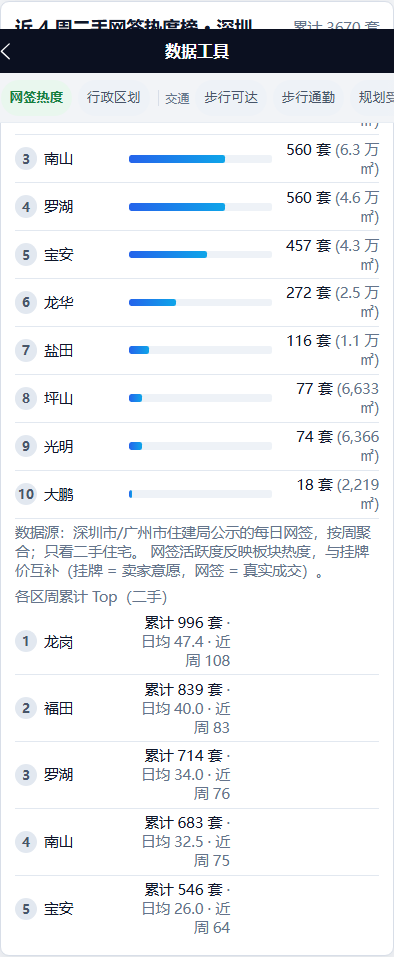
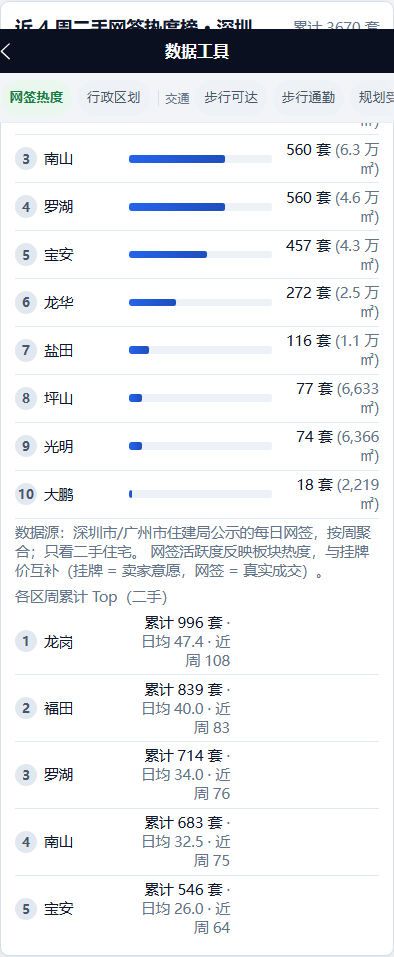
v1.123.82: sky-500 强调色 token 化
全仓扫描残留硬编码 #0ea5e9（sky-500）并迁移到 var(--color-focus)，
覆盖 dashboard（网签品类 tab 选中态、网签进度条渐变、房源新鲜度标题左边框、
趋势柱状图渐变）、data-tools（网签进度条渐变、社区价格涨色、价格分段 chip
选中态）、wangqian（spark-bar 第二组渐变）共 8 处。

纯色用法直接换 var(--color-focus)，渐变端点统一用
color-mix(in srgb, var(--color-focus) 80%, #000) 派生深色端。
浅色模式由 sky-500 切换为品牌蓝 #2563eb、深色模式由 sky-400 #38bdf8 统一，
消除主题间蓝色调不一致。map-view 地铁 POI 标记色属数据可视化，保留原值。

versionCode: 417

diff --git a/realty_app/src/pages/dashboard/dashboard.vue b/realty_app/src/pages/dashboard/dashboard.vue
@@ -4411,7 +4411,7 @@ onShow(async () => {
 }
 .trend-bar-fill {
   width: 80%;
-  background: linear-gradient(180deg, var(--color-focus) 0%, #0ea5e9 100%);
+  background: linear-gradient(180deg, var(--color-focus) 0%, color-mix(in srgb, var(--color-focus) 80%, #000) 100%);
   border-radius: var(--radius-xxxs) var(--radius-xxxs) 0 0;
   min-height: 4rpx;
 }
@@ -4441,9 +4441,9 @@ onShow(async () => {
   border: 1rpx solid var(--color-muted);
 }
 .wq-cat-tab-on {
-  background: #0ea5e9;
+  background: var(--color-focus);
   color: #ffffff;
-  border-color: #0ea5e9;
+  border-color: var(--color-focus);
 }
 .wq-cat-tab-off {
   background: transparent;
@@ -4644,7 +4644,7 @@ onShow(async () => {
 }
 .wq-fill {
   height: 100%;
-  background: linear-gradient(90deg, var(--color-focus) 0%, #0ea5e9 100%);
+  background: linear-gradient(90deg, var(--color-focus) 0%, color-mix(in srgb, var(--color-focus) 80%, #000) 100%);
   border-radius: var(--radius-xxs);
 }
 .wq-units {
@@ -4662,7 +4662,7 @@ onShow(async () => {
   color: var(--color-heading);
   margin: var(--space-3) 0 var(--space-1);
   padding-left: 6rpx;
-  border-left: 6rpx solid #0ea5e9;
+  border-left: 6rpx solid var(--color-focus);
 }
 .lf-row {
   display: flex;

diff --git a/realty_app/src/pages/data-tools/data-tools.vue b/realty_app/src/pages/data-tools/data-tools.vue
@@ -2550,7 +2550,7 @@ onUnmounted(() => {
 }
 .wq-fill {
   height: 100%;
-  background: linear-gradient(90deg, var(--color-focus) 0%, #0ea5e9 100%);
+  background: linear-gradient(90deg, var(--color-focus) 0%, color-mix(in srgb, var(--color-focus) 80%, #000) 100%);
   border-radius: var(--radius-xxs);
 }
 .wq-units {
@@ -2608,7 +2608,7 @@ onUnmounted(() => {
   color: #fff;
 }
 .sp-up {
-  color: #0ea5e9;
+  color: var(--color-focus);
   font-weight: var(--font-weight-semibold);
   font-family: "Menlo", "Consolas", monospace;
 }
@@ -2650,7 +2650,7 @@ onUnmounted(() => {
   font-size: var(--font-caption);
 }
 .spc-chip-on {
-  background: #0ea5e9;
+  background: var(--color-focus);
   color: #fff;
   border-color: var(--color-focus);
 }

diff --git a/realty_app/src/pages/wangqian/wangqian.vue b/realty_app/src/pages/wangqian/wangqian.vue
@@ -697,7 +697,7 @@ onLoad((opts?: Record<string, string>) => {
   border-radius: var(--radius-xxxs) var(--radius-xxxs) 0 0;
 }
 .spark-bar.second {
-  background: linear-gradient(180deg, var(--color-focus), #0ea5e9);
+  background: linear-gradient(180deg, var(--color-focus), color-mix(in srgb, var(--color-focus) 80%, #000));
 }
 .spark-bar.new-bar {
   background: linear-gradient(180deg, var(--color-trend-down), var(--color-primary));

diff --git a/realty_app/src/config.ts b/realty_app/src/config.ts
@@ -12,7 +12,7 @@ export const DEFAULT_API_BASE_URL = "http://localhost:8000";
 
 export const APP_NAME = "Realty App";
 // 与 src/manifest.json 的 versionName 同步；CI 出包时会自动覆写
-export const APP_VERSION = "1.123.81";
+export const APP_VERSION = "1.123.82";
 
 export const STORAGE_KEYS = {
   apiBaseUrl: "realty_app.apiBaseUrl",

diff --git a/realty_app/README.md b/realty_app/README.md
@@ -10,6 +10,7 @@
 
 | 版本 | 发布日期 | 说明 |
 |------|----------|------|
+| v1.123.82 | 2026-11-05 | sky-500 强调色 token 化：全仓扫描残留硬编码 `#0ea5e9`（sky-500）并迁移到 `var(--color-focus)`，覆盖 dashboard（网签品类 tab 选中态、网签进度条渐变、房源新鲜度标题左边框、趋势柱状图渐变）、data-tools（网签进度条渐变、社区价格涨色、价格分段 chip 选中态）、wangqian（spark-bar 第二组渐变）共 8 处；渐变端点统一用 `color-mix(in srgb, var(--color-focus) 80%, #000)` 派生深色端点，浅色模式由 sky-500 切换为品牌蓝 `#2563eb`、深色模式由 sky-400 `#38bdf8` 统一，消除主题间蓝色调不一致；map-view 地铁 POI 标记色属数据可视化，保留原值（versionCode 417） |
 | v1.123.81 | 2026-11-04 | 热力图色阶 token 化 + tag-pill 配色修复 + 地图空区域主题适配：① **trend-analysis 户型×面积热力图**——`.ba-cell--light/mid/deep` 背景 `#eff6ff/#bfdbfe/#1d4ed8` → `var(--color-info-soft)` / `color-mix(in srgb, var(--color-accent) 35%, #fff)` / `var(--color-accent)`，深色模式自动适配；② **listing-filter tag-pill 配色 bug 修复**——背景 `rgba(37,99,235,.12)`（蓝）配文字 `var(--color-primary)`（绿）颜色不匹配 → `var(--color-primary-soft)`（绿底绿字一致）；③ **dashboard 地图空区域**——`districtFill` 返回 `#f1f5f9`（浅灰）→ `var(--color-panel-soft)`，修复深色模式空区域过亮问题（versionCode 416） |
 | v1.123.80 | 2026-11-04 | 残留语义色 token 化（muted/奖牌铜银/状态标签）：① **muted 软色 4 处**——`dashboard gz-progress-track`、`listing-detail source-trust--estimated/unknown`、`listing-filter freshness-bar` 轨道、`school tag-source-curated` 的 `rgba(148,163,184,α)` → `color-mix(in srgb, var(--color-muted) N%, transparent)`，修复浅色模式误用深色 muted 色值的问题；② **奖牌银/铜**——`data-tools medal-silver/bronze` 与 `foundation rank-silver/bronze` 的 `#cbd5e1/#e5e7eb/#94a3b8/#d97706/#92400e` → `color-mix` 从 `--color-muted`/`--color-warning` 派生，金/银/铜三色明暗主题均保持金属质感；③ **状态标签**——`listing-filter freshness` 中段 `#d97706`→`--color-warning`、陈旧 `#9ca3af`→`--color-muted`，`dashboard lf-fresh-mid` 文字 `#d97706`→`--color-warning`，`foundation 地铁状态` 在建/即将开通/规划 `#d97706/#16a34a/#6b7280`→`--color-warning/--color-primary/--color-muted`；④ `dashboard lf-row` 边框 `#f1f5f9`→`--color-border-soft`，修复深色模式边框不可见（versionCode 415） |
 | v1.123.79 | 2026-11-04 | 语义色 token 迁移（续）：① **listing-detail 来源可信度标签**——`source-trust--real` 背景 `rgba(34,197,94,.18)` → `--color-success-soft`，`source-trust--derived` 背景 `rgba(245,158,11,.18)` → `--color-warn-soft`、文字 `#fbbf24` → `--color-warning`，`derived-warning` 背景/文字同步到 warn 系 token，深浅色自动适配且浅色模式对比度提升；② **listing-filter 迷你维度条**——绿/橙两档渐变硬编码色 `#10b981`/`#fbbf24` → `color-mix(in srgb, var(--color-primary|warning) 60%, #fff)`，红档已用 token；③ **奖牌金色**——`data-tools medal-gold` 与 `foundation rank-gold` 的 `#fbbf24`/`#f59e0b` → `color-mix(in srgb, var(--color-warning) 60%, #fff)` 到 `var(--color-warning)`，金/银/铜奖牌在明暗主题下均保持金属质感（versionCode 414） |
@@ -708,6 +709,10 @@ gh auth setup-git
 ## 更新日志
 
 详细变更见 [changelog/](./changelog/) 目录。
+
+### v1.123.82（2026-11-05）：sky-500 强调色 token 化
+
+全仓扫描残留硬编码 `#0ea5e9`（sky-500）并迁移到 `var(--color-focus)`：**dashboard.vue** 网签品类 tab 选中态 `.wq-cat-tab-on` 背景+边框、网签进度条 `.wq-fill` 渐变端点、房源新鲜度标题 `.lf-section-title` 左边框、趋势柱状图 `.trend-bar-fill` 渐变端点；**data-tools.vue** 网签进度条 `.wq-fill` 渐变端点、社区价格涨色 `.sp-up`、价格分段 chip 选中态 `.spc-chip-on` 背景；**wangqian.vue** `.spark-bar.second` 渐变端点。纯色用法直接换 `var(--color-focus)`，渐变端点统一用 `color-mix(in srgb, var(--color-focus) 80%, #000)` 派生深色端。浅色模式由 sky-500 切换为品牌蓝 `#2563eb`、深色模式由 sky-400 `#38bdf8` 统一，消除主题间蓝色调不一致。map-view 地铁 POI 标记色属数据可视化语义色，保留原值。详见 [changelog/2026-11-05-v1.123.82-sky强调色token化.md](./changelog/2026-11-05-v1.123.82-sky强调色token化.md)。
 
 ### v1.123.81（2026-11-04）：热力图色阶 token 化 + tag-pill 配色修复 + 地图空区域主题适配
 

diff --git a/realty_app/changelog/2026-11-05-v1.123.82-sky强调色token化.md b/realty_app/changelog/2026-11-05-v1.123.82-sky强调色token化.md
@@ -1,0 +1,56 @@
+# v1.123.82 · sky-500 强调色 token 化
+
+## 背景
+
+v1.123.81 保留项中列出了跨 dashboard/data-tools/wangqian 4 页一致使用的硬编码 `#0ea5e9`（sky-500）强调色。该色无对应语义 token，导致浅色模式固定为 sky-500、与品牌蓝 `--color-focus`（`#2563eb`）色调不一致，深色模式也未随主题切换。本轮将其统一迁移到 `var(--color-focus)`。
+
+## 迁移规则
+
+- **纯色用法** → `var(--color-focus)`
+- **渐变端点（深色端）** → `color-mix(in srgb, var(--color-focus) 80%, #000)`（与 v1.123.81 trend-bar-fill 既有模式一致）
+
+## 修复内容
+
+### dashboard.vue（4 处）
+
+| 位置 | 原值 | 新值 |
+|------|------|------|
+| `.wq-cat-tab-on` 背景+边框 | `#0ea5e9` | `var(--color-focus)` |
+| `.wq-fill` 渐变端点 | `#0ea5e9` | `color-mix(in srgb, var(--color-focus) 80%, #000)` |
+| `.lf-section-title` 左边框 | `#0ea5e9` | `var(--color-focus)` |
+| `.trend-bar-fill` 渐变端点 | `#0ea5e9`（上轮已迁 `--color-focus`） | `color-mix(in srgb, var(--color-focus) 80%, #000)` |
+
+### data-tools.vue（3 处）
+
+| 位置 | 原值 | 新值 |
+|------|------|------|
+| `.wq-fill` 渐变端点 | `#0ea5e9` | `color-mix(in srgb, var(--color-focus) 80%, #000)` |
+| `.sp-up` 文字色 | `#0ea5e9` | `var(--color-focus)` |
+| `.spc-chip-on` 背景 | `#0ea5e9` | `var(--color-focus)` |
+
+### wangqian.vue（1 处）
+
+| 位置 | 原值 | 新值 |
+|------|------|------|
+| `.spark-bar.second` 渐变端点 | `#0ea5e9` | `color-mix(in srgb, var(--color-focus) 80%, #000)` |
+
+## 主题适配效果
+
+- **浅色模式**：`--color-focus: #2563eb`（blue-600），所有 sky-500 强调色统一为品牌蓝
+- **深色模式**：`--color-focus: #38bdf8`（sky-400），原 sky-500 自动提亮为 sky-400，深色模式可读性提升
+- layout-diff 签名确认：`wq-cat-tab-on` 背景由 `rgb(14, 165, 233)` → `rgb(37, 99, 235)`
+
+## 保留
+
+- `map-view.vue` 中 7 处 `#0ea5e9`：地铁（subway）POI 标记色，属数据可视化语义色（地铁线路标识），保留原值不迁移。
+
+## 验证
+
+- `npm run type-check`：0 错误
+- `npm run build:h5`：通过
+- `run_suite core`：13/13（单独跑全通过；套件内 smoke_full_pages / smoke_responsive_layout 偶发 `ERR_CONNECTION_ABORTED`/`ERR_TIMED_OUT` 为 python http.server 并发容量抖动，非代码问题）
+- `run_suite extended`：10/10
+- `layout-diff`：签名 371（+3/-3，占比 1.62%）/ 元素 2542 / 锚点组 42/42，变更仅含 wq-cat-tab-on 与 gz-progress-track 颜色
+- 颜色复查（browser_evaluate 计算值）：
+  - 深色主题：`wq-cat-tab-on`/`wq-fill`/`lf-section-title`/`sp-up`/`spc-chip-on`/`spark-bar.second` 均解析为 `rgb(56, 189, 248)`（`--color-focus` 深色），渐变端点为 `color(srgb 0.176 0.593 0.778)`（80% mix）
+  - 浅色主题（layout-diff）：`wq-cat-tab-on` 解析为 `rgb(37, 99, 235)`（`--color-focus` 浅色）
